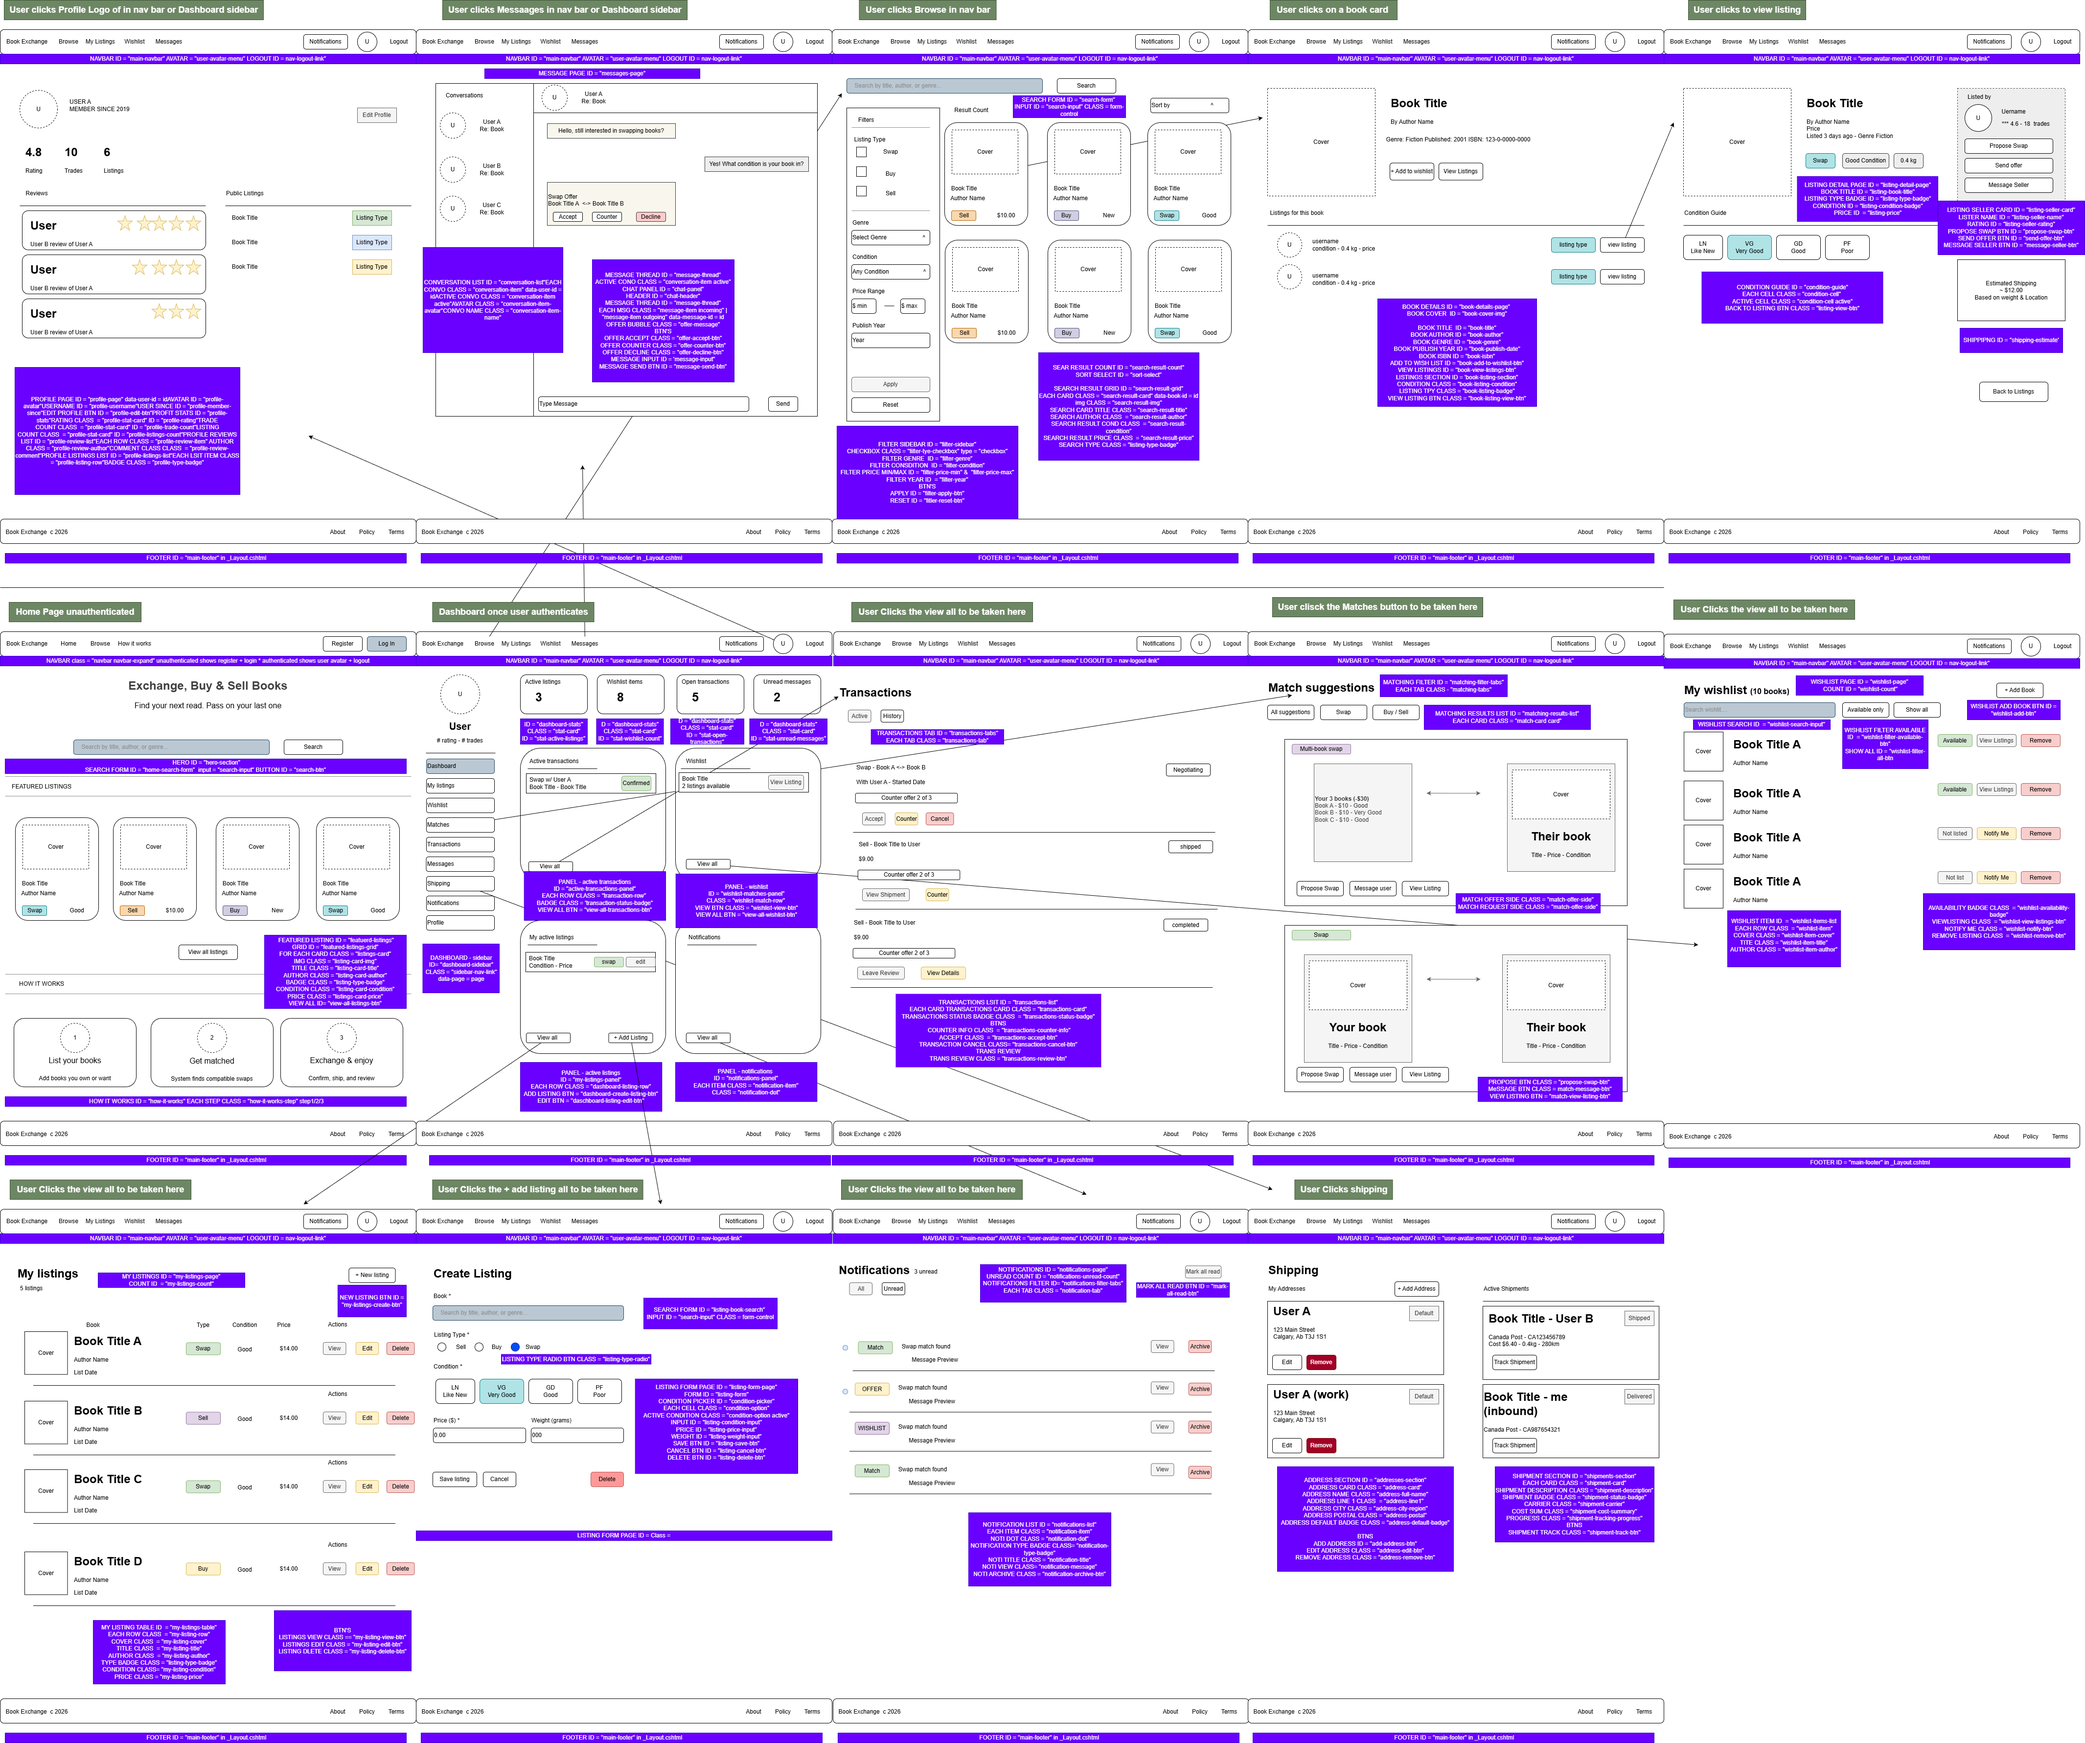
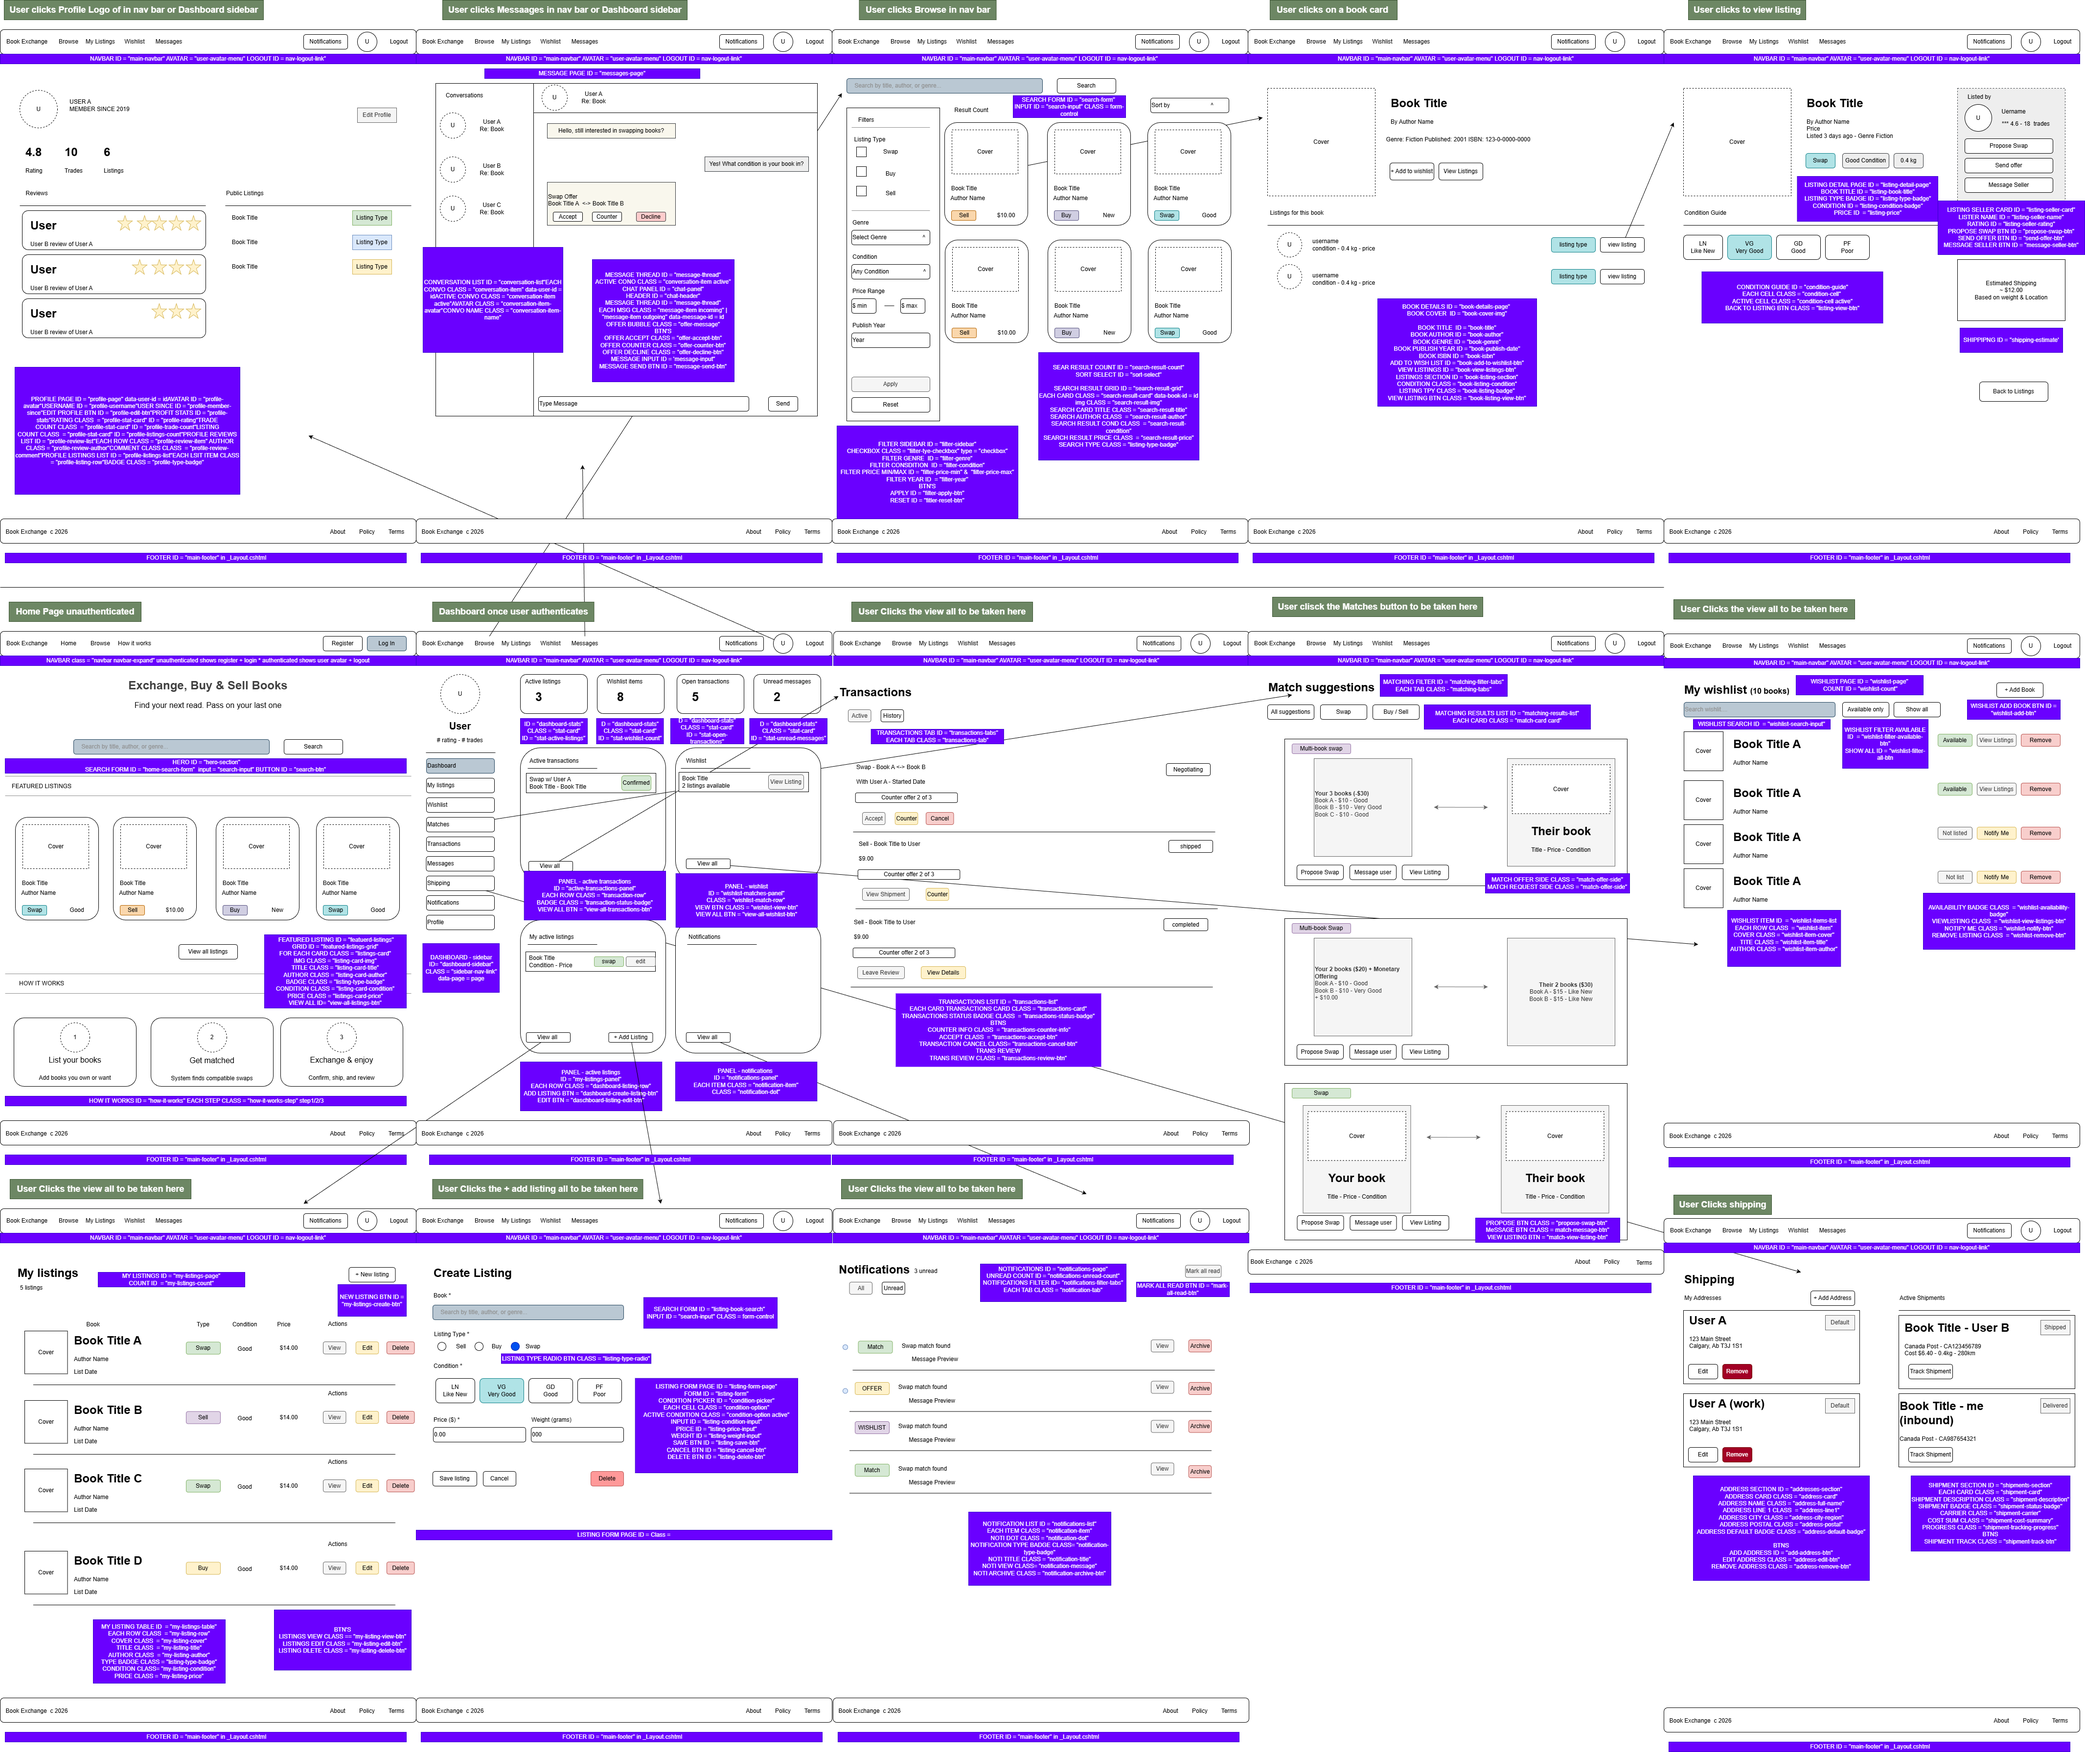
Update Scope doc and wireframe on latest client feedback

diff --git a/docs/SCOPE.md b/docs/SCOPE.md
@@ -76,6 +76,7 @@ The platform leverages matching logic and mock book data to connect users and fa
 - Users can propose book exchanges
 - System suggests value-balanced swaps
   - Example: 3 × $10 books for 1 × $30 book
+  - Example: 2 x $10 books + $10.00 for 1 x $30 book
 
 ---
 
@@ -147,6 +148,7 @@ The platform leverages matching logic and mock book data to connect users and fa
 - Matching logic must:
   - Consider both swap and buy/sell scenarios
   - Balance value differences in swaps
+  - If book balance isn't equal users can offer money to cover the balance and complete transaction
 - Maximum 3 counter-offer iterations per negotiation cycle
 - System must store:
   - Users
@@ -208,9 +210,12 @@ The platform leverages matching logic and mock book data to connect users and fa
 
 - Users can register, authenticate, and manage their profiles
 - Ratings and reviews are recorded and contribute to user reputation
+  - Ratings and reviews are only available to registered members
 - Books can be listed, searched, filtered by relevant attributes
 - Books can be rated and reviewed
+  - Book reviews are open to the public
 - Matching engine successfully identifies swap and buy/sell opportunities
+  - All users are altered when a match is found.
 - Messaging between users is functional
 - Role-based access control is enforced throughout the platform
 - Core backend logic is covered by unit and integration tests
